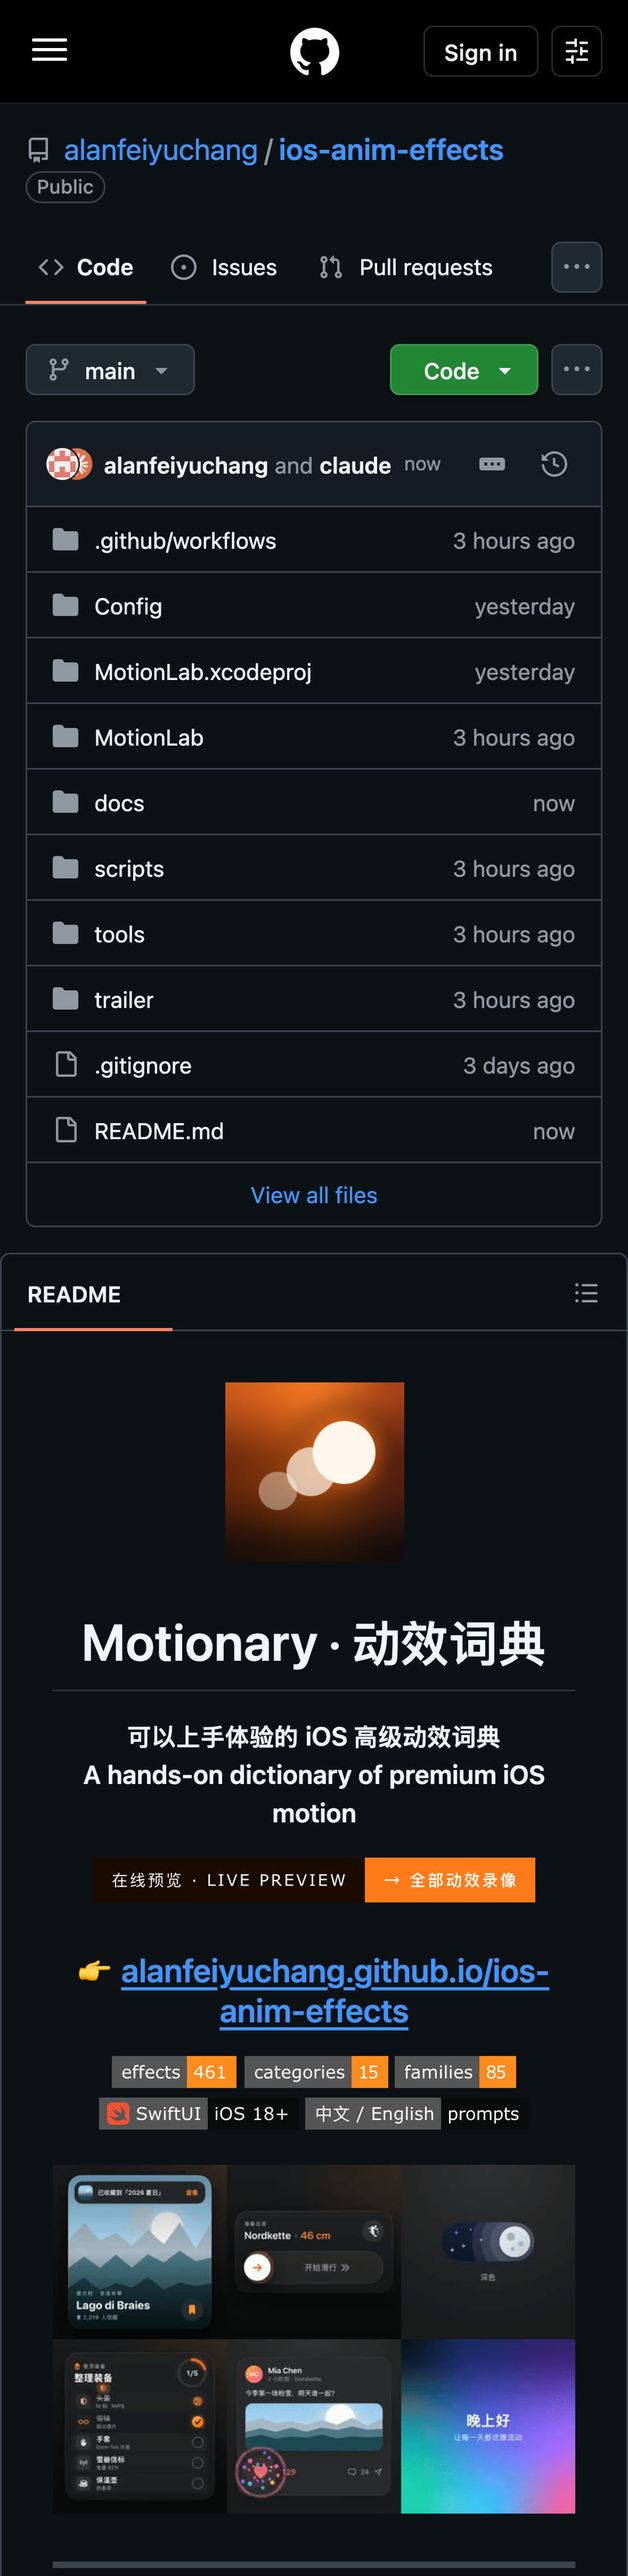
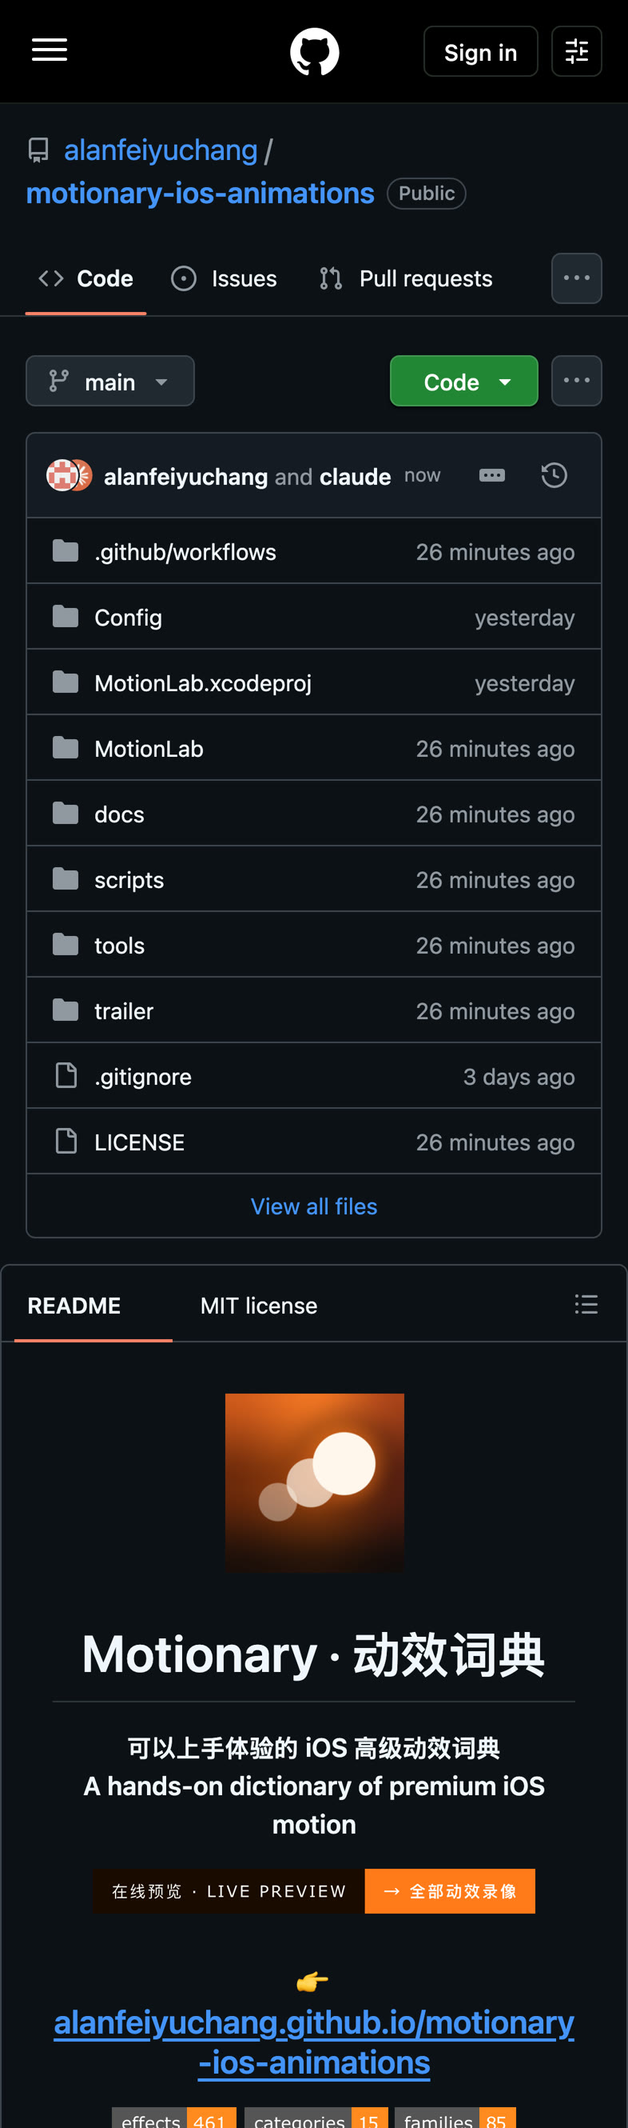
Trailer: URLs of the renamed repository, fresh GitHub screenshot, longer hold on the README [trailer]
The address bar types alanfeiyuchang.github.io/motionary-ios-animations and
github.com/alanfeiyuchang/motionary-ios-animations (the old Pages URL is a 404 after the rename).
The GitHub beat types faster and scrolls sooner, so the README's title and preview link hold ~1 s.

diff --git a/MotionLab/Trailer/TrailerOutroScenes.swift b/MotionLab/Trailer/TrailerOutroScenes.swift
@@ -619,13 +619,14 @@ private struct TrailerBrowserWindow: View {
     }()
 
     /// The address is retyped to the GitHub repository, the page loads (a thin progress bar), then scrolls.
-    static let githubTypeStart: Double = TrailerOutroScene.githubStart + 0.3
+    static let githubTypeStart: Double = TrailerOutroScene.githubStart + 0.2
+    /// 18 ms per character (0.9 s for the default 50), 0.4 … 1.2 s: the beat is short.
     static let githubTypeDuration: Double = {
-        let natural: Double = Double(TrailerCopy.current.openSource.url.count) * 0.022
-        return min(max(natural, 0.4), 1.4)
+        let natural: Double = Double(TrailerCopy.current.openSource.url.count) * 0.018
+        return min(max(natural, 0.4), 1.2)
     }()
     static let githubLoadStart: Double = githubTypeStart + githubTypeDuration + 0.05
-    static let githubShown: Double = githubLoadStart + 0.3
+    static let githubShown: Double = githubLoadStart + 0.25
 
     private var isCompact: Bool { size.width < 300 }
     /// 0 in the small window, 1 once it has grown for GitHub: the traffic lights and the reload glyph
@@ -668,7 +669,7 @@ private struct TrailerBrowserWindow: View {
 
     /// A thin ember bar under the address while GitHub loads.
     private var loadingBar: some View {
-        let p: Double = M.easeOut(M.progress(t, Self.githubLoadStart, 0.3))
+        let p: Double = M.easeOut(M.progress(t, Self.githubLoadStart, 0.25))
         let fade: Double = 1 - M.progress(t, Self.githubShown, 0.2)
         return Rectangle()
             .fill(Palette.accentFill)
@@ -739,14 +740,15 @@ private struct TrailerGitHubPage: View {
     let shownAt: Double
 
     /// Where the scroll stops, as a fraction of the screenshot's height: the README's icon, title and the
-    /// preview badge fill the window (the screenshot is 393 pt wide and 1610 pt tall; the icon starts
-    /// ~860 pt down, the badge sits at ~1175 pt).
-    static let stopFraction: CGFloat = 0.53
+    /// preview badge fill the window (the screenshot is 393 pt wide and 1330 pt tall; the icon starts
+    /// 871 pt down, the badge sits at 1168 pt).
+    static let stopFraction: CGFloat = 857.0 / 1330.0
 
     var body: some View {
         if let image = TrailerGitHubShot.image {
             let height: CGFloat = width * image.size.height / max(image.size.width, 1)
-            let p: Double = M.easeInOut(M.progress(t, shownAt + 0.25, TrailerOutroScene.condenseStart - shownAt - 0.65))
+            // Scrolls straight down to the README, then holds on its title and preview link before condensing.
+            let p: Double = M.easeInOut(M.progress(t, shownAt + 0.1, max(TrailerOutroScene.condenseStart - shownAt - 0.9, 0.3)))
             Image(uiImage: image)
                 .resizable()
                 .interpolation(.high)
@@ -755,7 +757,7 @@ private struct TrailerGitHubPage: View {
                 .frame(width: width, alignment: .top)
         } else {
             VStack(spacing: 10) {
-                Text(verbatim: "alanfeiyuchang / ios-anim-effects")
+                Text(verbatim: "alanfeiyuchang / motionary-ios-animations")
                     .font(.system(size: 12, weight: .semibold))
                     .foregroundStyle(Color(hex: 0x4493F8))
                 Text(verbatim: "Motionary · 动效词典")

diff --git a/MotionLab/Trailer/TrailerCopy.swift b/MotionLab/Trailer/TrailerCopy.swift
@@ -131,7 +131,7 @@ struct TrailerCopy: Codable, Equatable {
         var title = "网页随时看 · App 感受手感"
         var subtitle = ""
         /// Typed into the address bar.
-        var url = "alanfeiyuchang.github.io/ios-anim-effects"
+        var url = "alanfeiyuchang.github.io/motionary-ios-animations"
         var siteName = "Motionary"
         var siteTagline = "全部动效录像"
         var countBadge = "{effects} 个"
@@ -145,7 +145,7 @@ struct TrailerCopy: Codable, Equatable {
         var title = "完全开源"
         var subtitle = "欢迎 Star · 一起补充动效"
         /// Typed into the address bar.
-        var url = "github.com/alanfeiyuchang/ios-anim-effects"
+        var url = "github.com/alanfeiyuchang/motionary-ios-animations"
     }
 
     /// 87–90 s: the end card under the app icon.

diff --git a/tools/trailer-editor.html b/tools/trailer-editor.html
@@ -303,7 +303,7 @@ footer { margin-top: 28px; font-size: 12.5px; color: var(--faint); text-align: c
   "web": {
     "title": "网页随时看 · App 感受手感",
     "subtitle": "",
-    "url": "alanfeiyuchang.github.io/ios-anim-effects",
+    "url": "alanfeiyuchang.github.io/motionary-ios-animations",
     "siteName": "Motionary",
     "siteTagline": "全部动效录像",
     "countBadge": "{effects} 个",
@@ -313,7 +313,7 @@ footer { margin-top: 28px; font-size: 12.5px; color: var(--faint); text-align: c
   "openSource": {
     "title": "完全开源",
     "subtitle": "欢迎 Star · 一起补充动效",
-    "url": "github.com/alanfeiyuchang/ios-anim-effects"
+    "url": "github.com/alanfeiyuchang/motionary-ios-animations"
   },
   "end": {
     "title": "Motionary",
